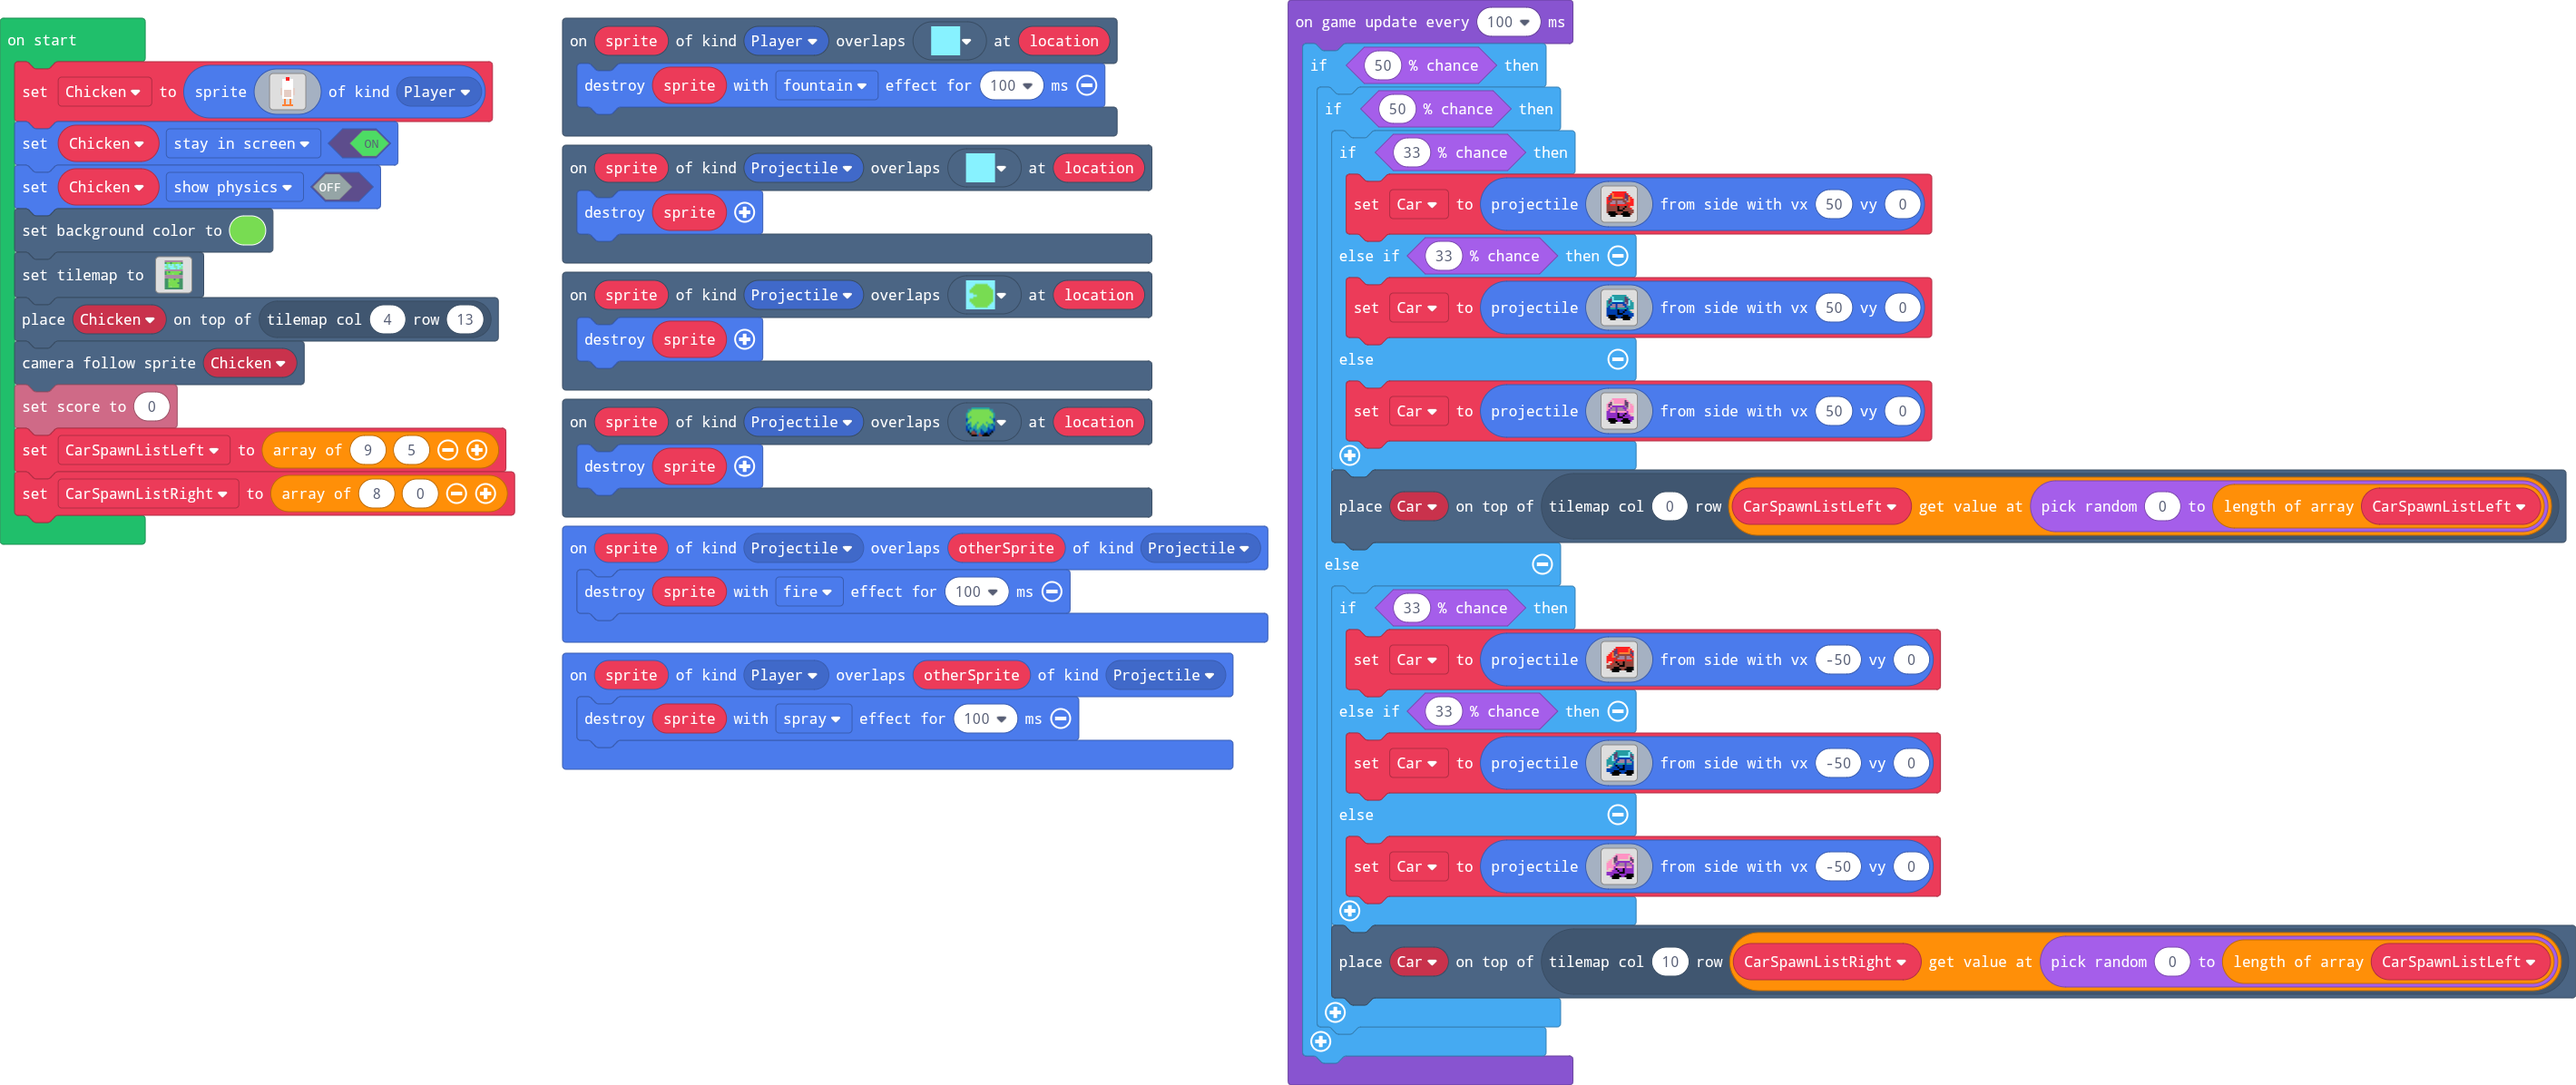
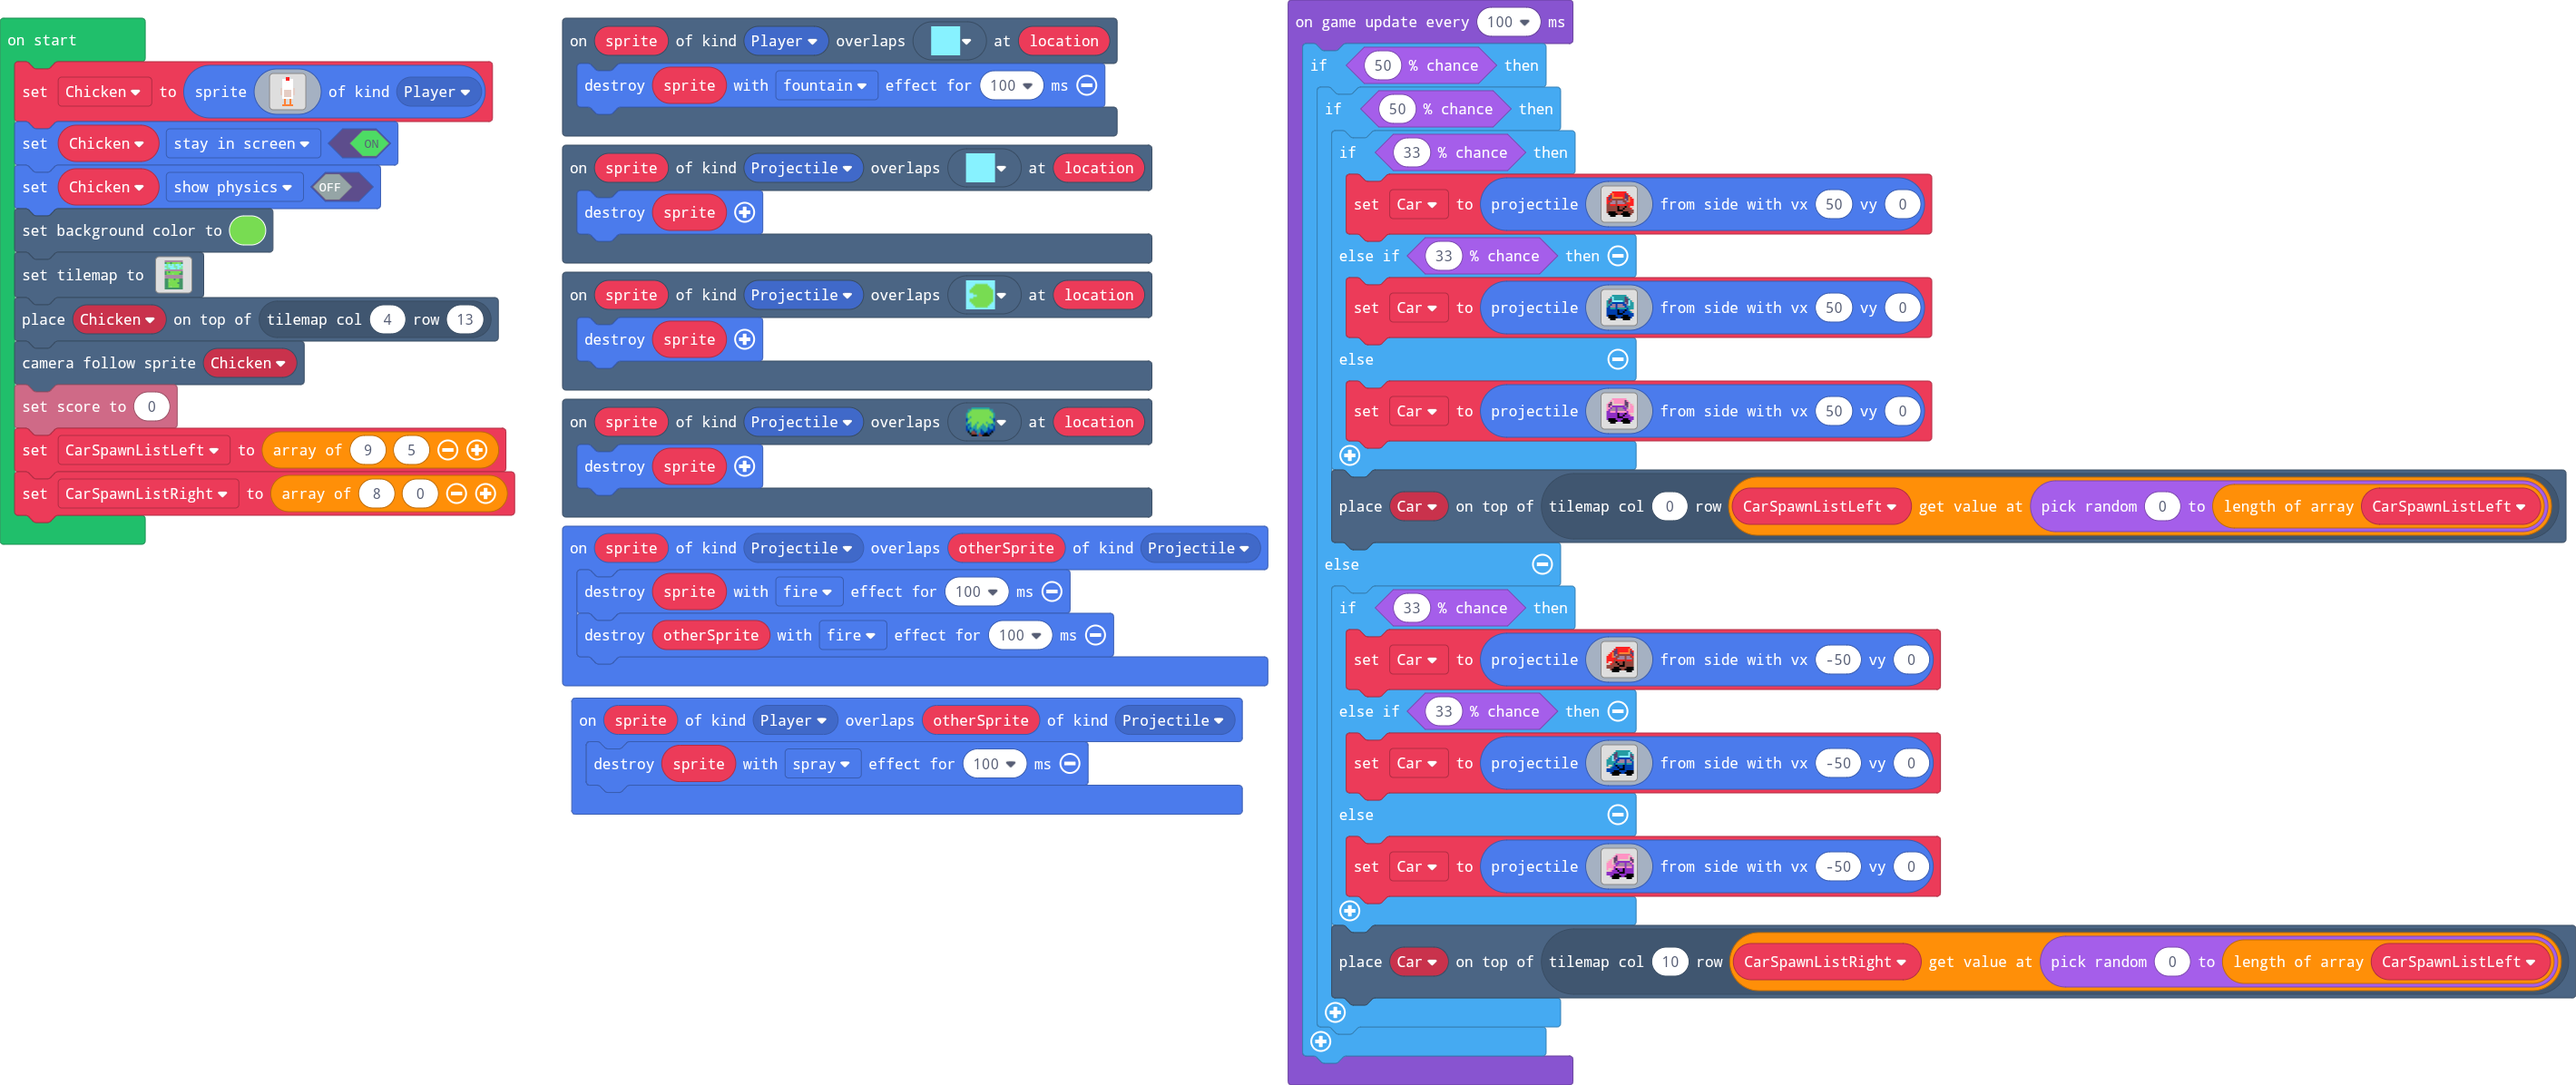
Update main.blocks, main.ts

Changed region(s): [[0.217, 0.5259, 0.4959, 0.7734]]

diff --git a/main.ts b/main.ts
@@ -90,6 +90,7 @@ sprites.onOverlap(SpriteKind.Player, SpriteKind.Projectile, function (sprite, ot
 })
 sprites.onOverlap(SpriteKind.Projectile, SpriteKind.Projectile, function (sprite, otherSprite) {
     sprite.destroy(effects.fire, 100)
+    otherSprite.destroy(effects.fire, 100)
 })
 scene.onOverlapTile(SpriteKind.Projectile, sprites.builtin.forestTiles0, function (sprite, location) {
     sprite.destroy()
